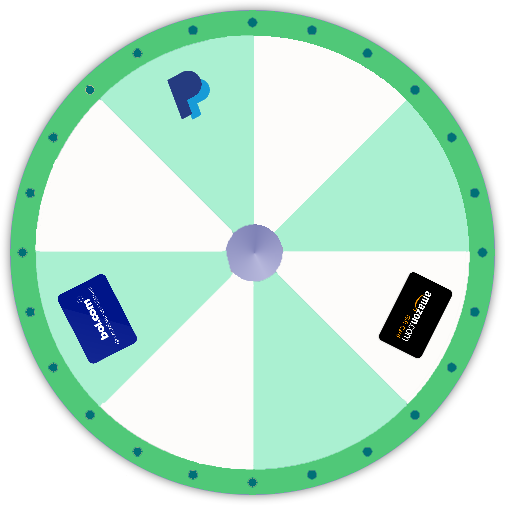
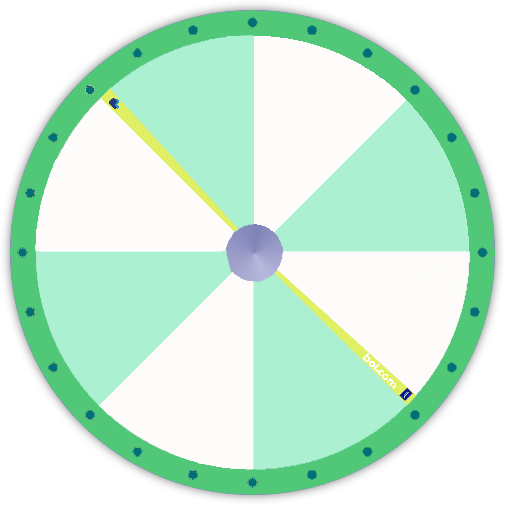
Lucky wheel works + added comments (voor duidelijkheid)

diff --git a/assets/css/luckywheel.css b/assets/css/luckywheel.css
@@ -2,6 +2,7 @@ body {
     background-color: #aaf0d1;
 }
 
+/* HEADER BOX STYLING */
 .headerBox {
 background-color: #addfad;
 padding: 10px;
@@ -51,25 +52,84 @@ text-decoration: none;
 }
 
 #buttonHelp {
-border: 4px solid #50c878;
-padding: 15px 27px;
-background-color:  #aaf0d1;
-font-family: 'Ubuntu';
-font-size: 20px;
-color: #007077;
-text-decoration: none;
+    border: 4px solid #50c878;
+    padding: 15px 27px;
+    background-color:  #aaf0d1;
+    font-family: 'Ubuntu';
+    font-size: 20px;
+    color: #007077;
+    text-decoration: none;
 }
 
+/* LUCKY WHEEL STYLING */
 #buttonWheel {
-border: 4px solid #50c878;
-padding: 15px 27px;
-background-color:  #aaf0d1;
-font-family: 'Ubuntu';
-font-size: 20px;
-color: #007077;
-text-decoration: none;
+    border: 4px solid #50c878;
+    padding: 15px 27px;
+    background-color:  #aaf0d1;
+    font-family: 'Ubuntu';
+    font-size: 20px;
+    color: #007077;
+    text-decoration: none;
 }
 
+#title {
+    font-family: 'Ubuntu';
+    color: #007077;
+    font-size: 50px;
+    display: flex;
+    justify-content: center;
+    top: 200px;
+}
+
+.lucky_wheel {
+    width: 400px;
+    height: 400px;
+    margin: 0 auto;
+    position: relative;
+}
+
+#markerWheel {
+    position: absolute;
+    width: 60px;
+    left: 172px;
+    top: 22px;
+    z-index: 2;
+}
+
+#wheel {
+    position: relative;
+    width: 120%;
+    height: 120%;
+    right: 38px;
+    top: 20px;
+}
+
+#spinWheel {
+    display: block;
+    width: 250px;
+    margin: 40px;
+    cursor: pointer;
+    position: absolute;
+    left: 38px;
+    top: 475px;
+}
+
+#betterLuck {
+    position: absolute;
+    width: 100%;
+    height: auto;
+    top: 200px;
+    z-index: 0;
+    visibility: hidden;
+    opacity: 1;
+    transition: 0.3s ease-in-out;
+}
+
+#betterLuck.show {
+    visibility: visible;
+}
+
+/* HOVER FUNCTIONS ON HEADER BUTTONS */
 #buttonKalender:hover {
 background-color: #50c878;
 }
@@ -84,4 +144,9 @@ background-color: #50c878;
 
 #buttonWheel:hover {
 background-color: #50c878;
+}
+
+/* WHEEL SPIN BUTTON HOVER FUNCTION */
+#spinWheel:hover {
+    opacity: 0.8;
 }

diff --git a/luckywheel.html b/luckywheel.html
@@ -11,10 +11,14 @@
     <link rel="preconnect" href="https://fonts.gstatic.com" crossorigin>
     <link href="https://fonts.googleapis.com/css2?family=Ubuntu:wght@500&display=swap" rel="stylesheet">
 </head>
-<body>   
+<body>
+
+    <!-- TITLE -->
     <h1 id="title">
         Lucky wheel
     </h1>
+
+    <!-- HEADERBOX WITH BUTTONS -->
     <div class="headerBox">
         <img src="./assets/images/Logo_LetSurprise2.png" id="logo" alt="Logo">
         <img src="./assets/images/profile_icon.png" id="profileIcon" alt="Icon of profile">
@@ -25,13 +29,15 @@
             <a href="luckywheel.html" id="buttonWheel">Lucky wheel</a>
         </div>
     </div>
+
+    <!-- LUCKY WHEEL IMAGES -->
     <div class="lucky_wheel">
         <img src="assets/images/luckywheel.png" id="wheel" alt="image of lucky wheel">
-        <img src="assets/images/buttonwheel.png" id="buttonWheel" alt="button for the wheel">
+        <img src="assets/images/buttonwheel.png" id="spinWheel" alt="button for the wheel">
         <img src="assets/images/marker.png" id="markerWheel" alt="marker for the wheel">
+        <img src="assets/images/volgendekeerbeter.png" id="betterLuck" alt="volgende keer beter afbeelding">
     </div>
 
-
-    <script src="./assets/js/script.js"></script>
+    <script src="./assets/js/wheel.js"></script>
 </body>
 </html>

diff --git a/assets/js/wheel.js b/assets/js/wheel.js
@@ -1,0 +1,25 @@
+(function() {
+    const wheel = document.querySelector('#wheel')
+    const startButton = document.querySelector('#spinWheel')
+    const betterLuck = document.querySelector('#betterLuck')
+    let deg = 0;
+
+    startButton.addEventListener('click', () => {
+        startButton.style.pointerEvents = 'none';
+        deg = Math.floor(5000 + Math.random() * 7500)
+        wheel.style.transition = 'all 10s ease-out';
+        wheel.style.transform = `rotate(${deg}deg)`;
+    });
+
+    
+    wheel.addEventListener('transitionend', () => {
+        startButton.style.pointerEvents = 'auto';
+        wheel.style.transition = 'none';
+        const actualDeg = deg % 360;
+        wheel.style.transform = `rotate(${actualDeg}deg)`;
+    });
+    
+    startButton.addEventListener('click', {
+        // HIER KOMT FUNCTIE OM VOLGENDE KEER BETER TE LATEN ZIEN NA 10 SECONDEN (MOET IK NOG VRAGEN)
+    });
+})();

diff --git a/index.html b/index.html
@@ -13,6 +13,7 @@
 </head>
 <body>   
     
+    <!-- HEADERBOX WITH BUTTONS -->
     <div class="headerBox">
         <img src="./assets/images/Logo_LetSurprise2.png" id="logo" alt="Logo">
         <img src="./assets/images/profile_icon.png" id="profileIcon" alt="Icon of profile">
@@ -23,8 +24,7 @@
             <a href="luckywheel.html" id="buttonWheel">Lucky wheel</a>
         </div>
     </div>
-
-
+    
     <script src="./assets/js/script.js"></script>
 </body>
 </html>

diff --git a/assets/css/style.css b/assets/css/style.css
@@ -2,6 +2,7 @@ body {
   background-color: #aaf0d1;
 }
 
+/* HEADER BOX STYLING */
 .headerBox {
   background-color: #addfad;
   padding: 10px;
@@ -70,6 +71,7 @@ body {
   text-decoration: none;
 }
 
+/* HOVER FUNCTIONS ON HEADER BUTTONS */
 #buttonKalender:hover {
   background-color: #50c878;
 }
